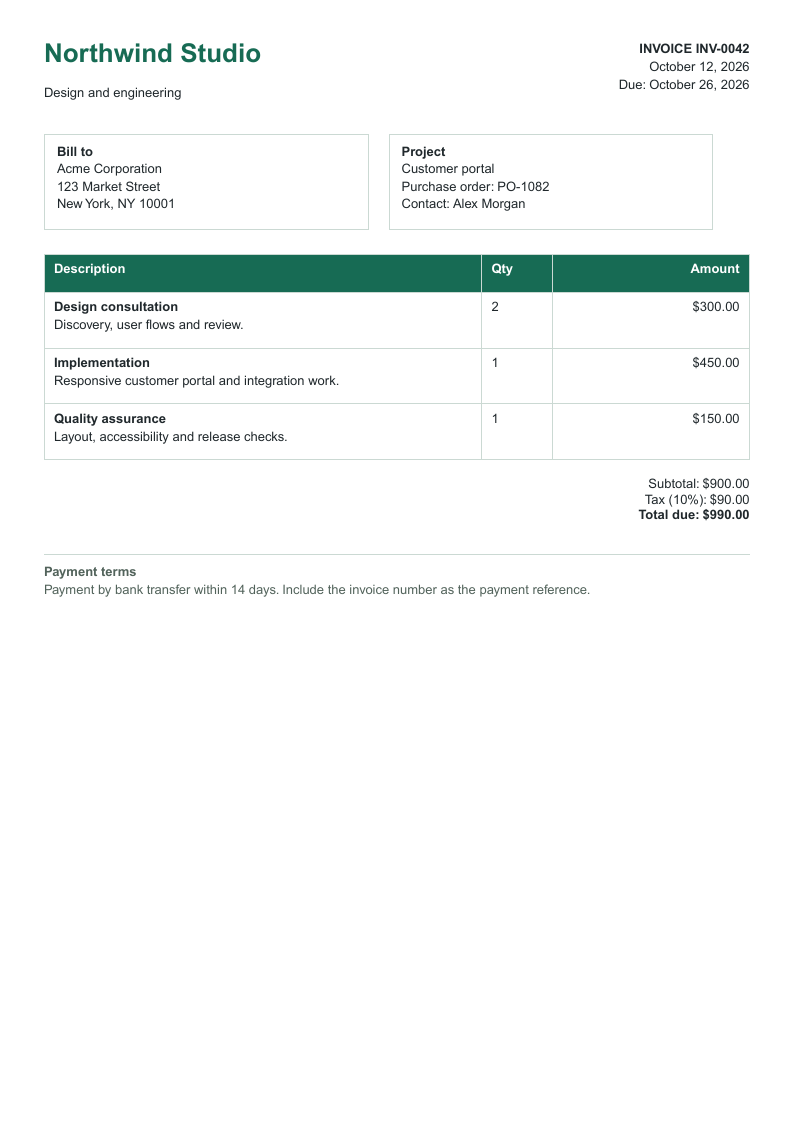
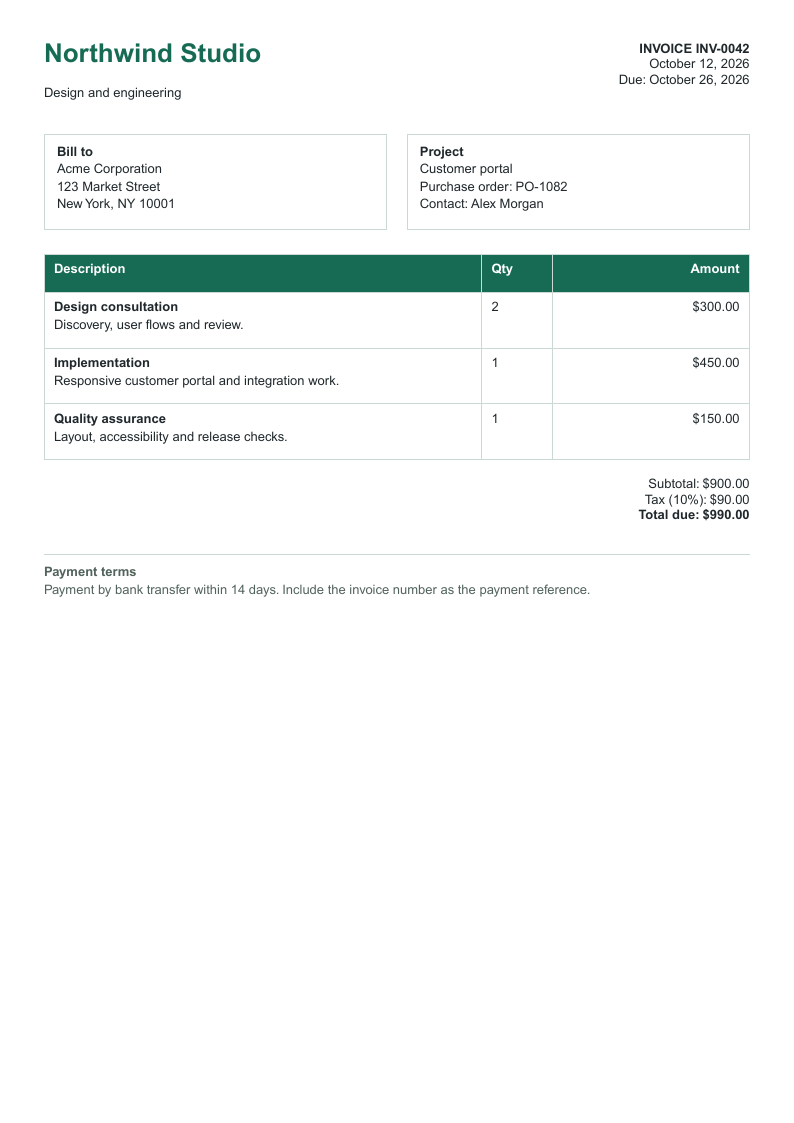
fix(layout): correct box sizing and inline line height

Changed region(s): [[0.4836, 0.1247, 0.6952, 0.187], [0.7859, 0.0312, 0.937, 0.0935]]

diff --git a/test/box-model.test.js b/test/box-model.test.js
@@ -1,0 +1,66 @@
+const assert = require('assert');
+const PDFDocument = require('pdfkit');
+const { renderPdfFromHtml } = require('../src');
+
+async function capture(html) {
+  const text = [];
+  const rectangles = [];
+  const originalText = PDFDocument.prototype.text;
+  const originalRect = PDFDocument.prototype.rect;
+  PDFDocument.prototype.text = function (value, x, y, options) {
+    text.push({ value: String(value), x: typeof x === 'number' ? x : this.x,
+      y: typeof y === 'number' ? y : this.y, font: this._font.name });
+    return originalText.call(this, value, x, y, options);
+  };
+  PDFDocument.prototype.rect = function (x, y, width, height) {
+    rectangles.push({ x, y, width, height });
+    return originalRect.call(this, x, y, width, height);
+  };
+  try {
+    await renderPdfFromHtml(html, { autoResolveFonts: false, autoResolveEmojiFont: false });
+  } finally {
+    PDFDocument.prototype.text = originalText;
+    PDFDocument.prototype.rect = originalRect;
+  }
+  return { text, rectangles };
+}
+
+async function run() {
+  const mixed = await capture(`<div style="width:200px;padding:16px;border:1px solid black;font-family:Helvetica;font-weight:bold">
+    InlineMarker<div>BlockMarker</div></div>`);
+  const inline = mixed.text.find(call => call.value === 'InlineMarker');
+  const block = mixed.text.find(call => call.value === 'BlockMarker');
+  assert.ok(inline && block && Math.abs(inline.x - block.x) < 0.01, 'anonymous text must not repeat parent padding');
+  assert.ok(inline.font.includes('Bold'), 'anonymous text must retain inherited font styles');
+
+  const flex = await capture(`<div style="display:flex;width:600px;gap:0">
+    <div style="width:100px;padding:10px;border:1px solid black"><div>ContentBox</div></div>
+    <div style="width:100px;padding:10px;border:1px solid black;box-sizing:border-box"><div>BorderBox</div></div>
+    <div style="width:20%;padding:10px;border:1px solid black"><div>PercentBox</div></div>
+    <div style="flex-basis:80px;padding:10px;border:1px solid black"><div>BasisBox</div></div>
+  </div>`);
+  for (const [marker, expectedWidth] of Object.entries({ ContentBox: 91.5, BorderBox: 75, PercentBox: 106.5, BasisBox: 76.5 })) {
+    const call = flex.text.find(item => item.value === marker);
+    assert.ok(call && flex.rectangles.some(rect => Math.abs(rect.x + 8.25 - call.x) < 0.01 &&
+      Math.abs(rect.width - expectedWidth) < 0.01), `${marker} must respect its outer box width`);
+  }
+  const shrink = await capture(`<div style="display:flex;width:400px;gap:20px">
+    <div style="width:46%;padding:10px;border:1px solid black"><div>Left</div></div>
+    <div style="width:46%;padding:10px;border:1px solid black"><div>Right</div></div>
+  </div>`);
+  assert.ok(shrink.rectangles.filter(rect => Math.abs(rect.width - 142.5) < 0.01).length >= 2,
+    'padded percentage items must shrink to the available row width');
+
+  const lines = await capture(`<div style="font-size:10pt;line-height:1.5;font-family:Helvetica">
+    <strong>LineOne</strong><br>LineTwo<br><em>LineThree</em></div>
+    <div style="width:70px;font-size:10pt;line-height:1.5"><strong>Alpha beta</strong> gamma delta epsilon zeta</div>`);
+  const y = ['LineOne', 'LineTwo', 'LineThree'].map(marker => lines.text.find(call => call.value === marker).y);
+  assert.ok(Math.abs(y[1] - y[0] - 15) < 0.01 && Math.abs(y[2] - y[1] - 15) < 0.01,
+    'explicit breaks must use CSS line-height once');
+  const wrappedY = [...new Set(lines.text.filter(call => call.y > y[2]).map(call => call.y))];
+  assert.ok(wrappedY.length >= 3, 'regression must exercise mixed-style automatic wrapping');
+  for (let i = 1; i < wrappedY.length; i++) assert.ok(Math.abs(wrappedY[i] - wrappedY[i - 1] - 15) < 0.01,
+    'automatic wrapping must use CSS line-height once');
+}
+
+module.exports = { name: 'box-model', run };

diff --git a/src/pdf/render-flex.js b/src/pdf/render-flex.js
@@ -88,6 +88,20 @@ function estimateNodeWidth(node, doc, isInlineDisplay) {
   return maxWidth + padL + padR + borderL + borderR + widthEps;
 }
 
+function outerWidth(styles, contentWidth, containerWidth) {
+  if (String(styles['box-sizing'] || '').trim().toLowerCase() === 'border-box') return contentWidth;
+  const padding = styleNumber(styles, 'padding', 0, { percentBase: containerWidth });
+  let extra = 0;
+  for (const side of ['left', 'right']) {
+    extra += styleNumber(styles, `padding-${side}`, padding, { percentBase: containerWidth });
+    const borderStyle = String(styles[`border-${side}-style`] || styles['border-style'] || '').trim().toLowerCase();
+    if (borderStyle !== 'none' && borderStyle !== 'hidden') {
+      extra += styleNumber(styles, `border-${side}-width`, styleNumber(styles, 'border-width', 0));
+    }
+  }
+  return contentWidth + extra;
+}
+
 function estimateNodeMinWidth(node, doc, isInlineDisplay, containerWidth = null) {
   if (!node) return 0;
   if (node.type === 'text') {
@@ -104,7 +118,7 @@ function estimateNodeMinWidth(node, doc, isInlineDisplay, containerWidth = null)
   const borderR = styleNumber(styles, 'border-right-width', borderWidth);
   const explicitWidth = styleNumber(styles, 'width', null, { percentBase: containerWidth });
   const minWidth = styleNumber(styles, 'min-width', null, { percentBase: containerWidth });
-  if (explicitWidth != null) return Math.max(0, explicitWidth);
+  if (explicitWidth != null) return Math.max(0, outerWidth(styles, explicitWidth, containerWidth));
   const lines = collectLineRuns(node, styles, isInlineDisplay, mergeStyles);
   let maxWidth = 0;
   for (const line of lines) {
@@ -171,7 +185,9 @@ async function renderFlexRow(children, ctx, { startX, startY, width, gap, rowGap
     const childStyles = child.styles || {};
     const basis = styleNumber(childStyles, 'flex-basis', null, { percentBase: width });
     const explicitWidth = styleNumber(childStyles, 'width', null, { percentBase: width });
-    const baseWidth = basis ?? explicitWidth ?? estimateNodeWidth(child, doc, isInlineDisplay);
+    const specifiedWidth = basis ?? explicitWidth;
+    const baseWidth = specifiedWidth != null ? outerWidth(childStyles, specifiedWidth, width)
+      : estimateNodeWidth(child, doc, isInlineDisplay);
     const grow = parseFlexGrow(childStyles);
     const minWidth = estimateNodeMinWidth(child, doc, isInlineDisplay, width);
     return {

diff --git a/src/pdf/render-node.js b/src/pdf/render-node.js
@@ -1,4 +1,5 @@
 const { renderImage, renderTable } = require('../components');
+const { INHERITABLE } = require('../read-html');
 const {
   BASE_PT,
   defaultFontSizeFor,
@@ -154,7 +155,7 @@ function groupMixedChildren(children, parentStyles) {
         type: 'element',
         tag: 'div',
         attrs: {},
-        styles: { ...parentStyles },
+        styles: Object.fromEntries(Object.entries(parentStyles).filter(([property]) => INHERITABLE.has(property))),
         children: inlineGroup,
         _anonymous: true,
       });
@@ -449,7 +450,7 @@ function renderInlineRuns(runs, ctx, { baseStyles, align, lineGap, tag }) {
 
       x += item.boxW;
     }
-    y += line.height + (i < lines.length - 1 ? lineGap : 0);
+    y += line.height;
   }
 
   return y - layout.y;

diff --git a/test/run-tests.js b/test/run-tests.js
@@ -8,6 +8,7 @@ const tests = [
   require('./layout.test'),
   require('./layout-edge.test'),
   require('./inline-layout.test'),
+  require('./box-model.test'),
   require('./css.test'),
   require('./blockquote.test'),
   require('./validation.test'),

diff --git a/src/read-html.js b/src/read-html.js
@@ -672,4 +672,4 @@ async function parseHtmlToObject(
   };
 }
 
-module.exports = { parseHtmlToObject };
+module.exports = { parseHtmlToObject, INHERITABLE };

diff --git a/examples/README.md b/examples/README.md
@@ -62,19 +62,18 @@ register) for omissions or duplication; this is not a full visual correctness
 test. It never updates or approves regression baselines. Chromium embeds system
 fonts; Lite uses standard Helvetica, so pixel equality is not expected.
 
-Local review with package 1.2.4 and Chrome 148 found:
+Local review of the current source (package version 1.2.4) with Chrome 148 found:
 
 | Example | Lite / Chromium pages | Review |
 | --- | --- | --- |
-| Invoice | 1 / 1 | No visible text collisions; Lite's address frames are narrower and spacing differs. |
-| Report | 1 / 1 | Mixed-style text, bold and line breaks render; Lite's KPI blocks have excessive inset/height. |
+| Invoice | 1 / 1 | No visible text collisions; address frame widths now match, while vertical spacing differs. |
+| Report | 1 / 1 | Repeated KPI padding and excess mixed-style leading are fixed; default block spacing still differs. |
 | Register | 3 / 3 | All 50 accounts occur once and headers repeat; Lite page ranges are 1-17, 18-36, 37-50 versus Chromium's 1-19, 20-40, 41-50. |
 
-Do not approve the current invoice/report as layout baselines yet. Code review
-identified two concrete sizing issues: anonymous inline groups copy the parent's
-padding/borders (`groupMixedChildren` in `src/pdf/render-node.js`), and explicit
-flex widths omit content-box padding/borders in the flex basis calculation
-(`src/pdf/render-flex.js`). The manual inline renderer also adds `lineGap` to a
-line height that already includes CSS leading, increasing mixed-style paragraph
-spacing. Table pagination additionally depends on PDFKit font/line-height
+The three diagnosed issues are covered by `test/box-model.test.js`: anonymous
+inline groups inherit typography, not the parent's box styles; explicit flex
+widths include content-box padding/borders but do not expand border-box widths;
+and mixed-style lines apply CSS line-height once. Invoice/report previews were
+regenerated and visually checked, without approving pixel-perfect baselines.
+Default block spacing and table pagination still depend on PDFKit font/line-height
 metrics; a matching total page count alone does not establish browser parity.
